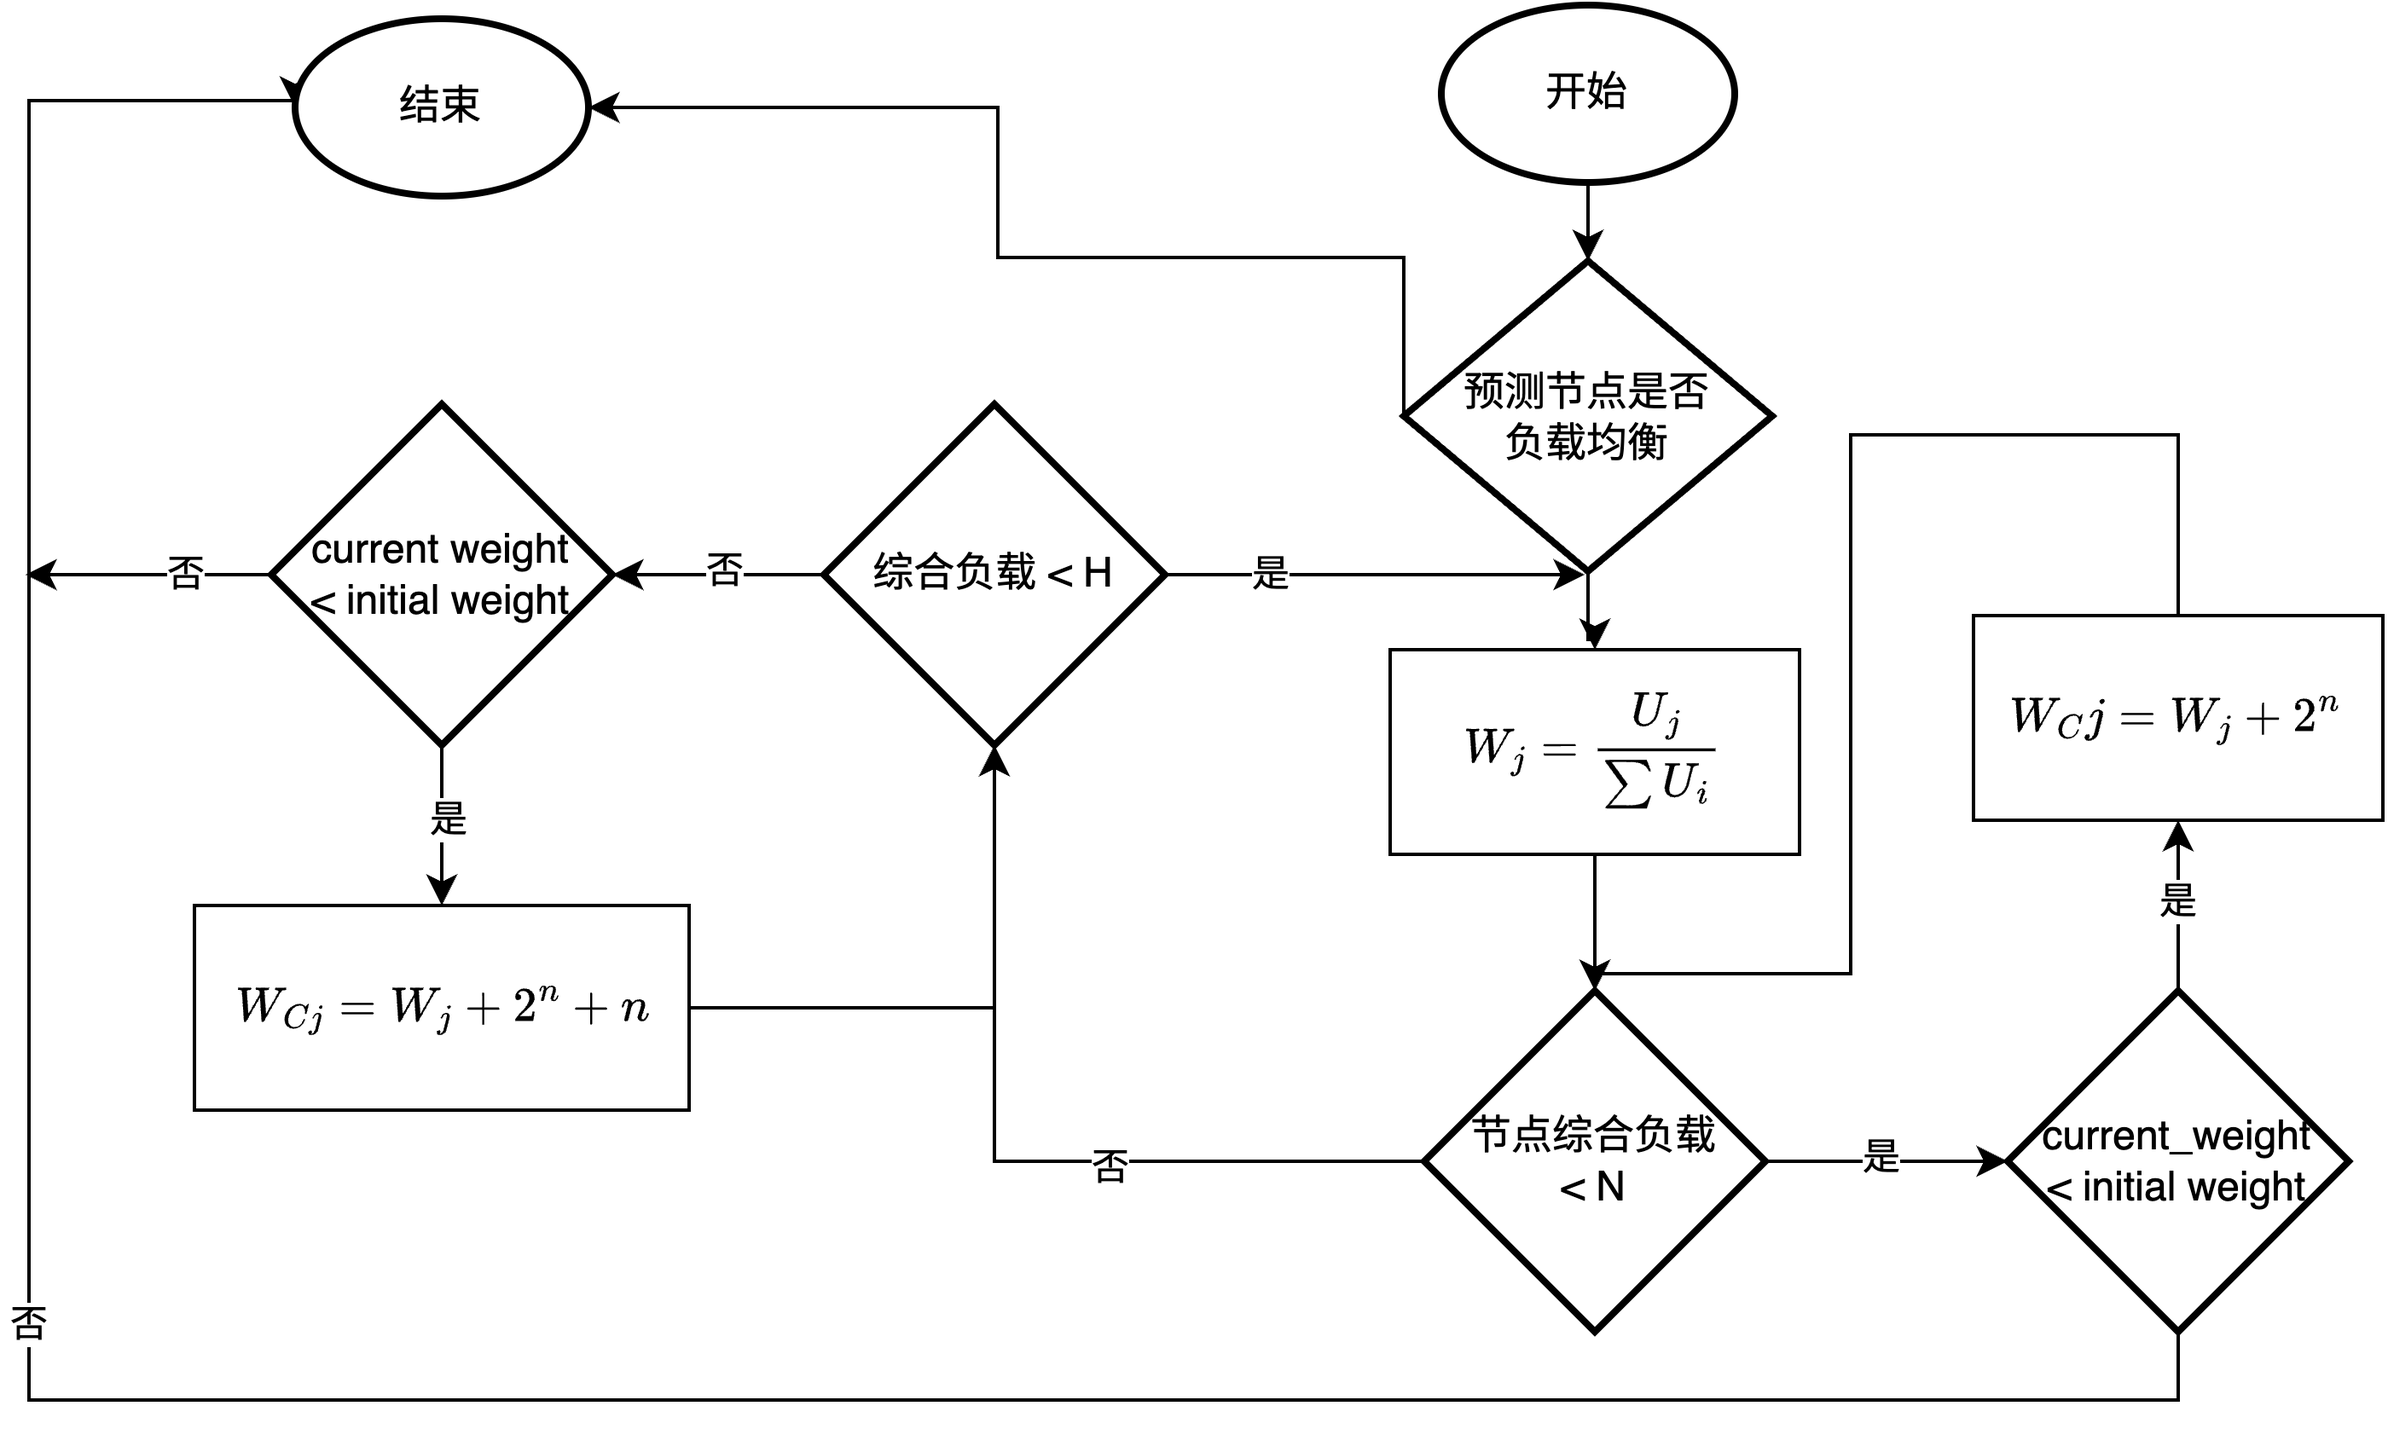
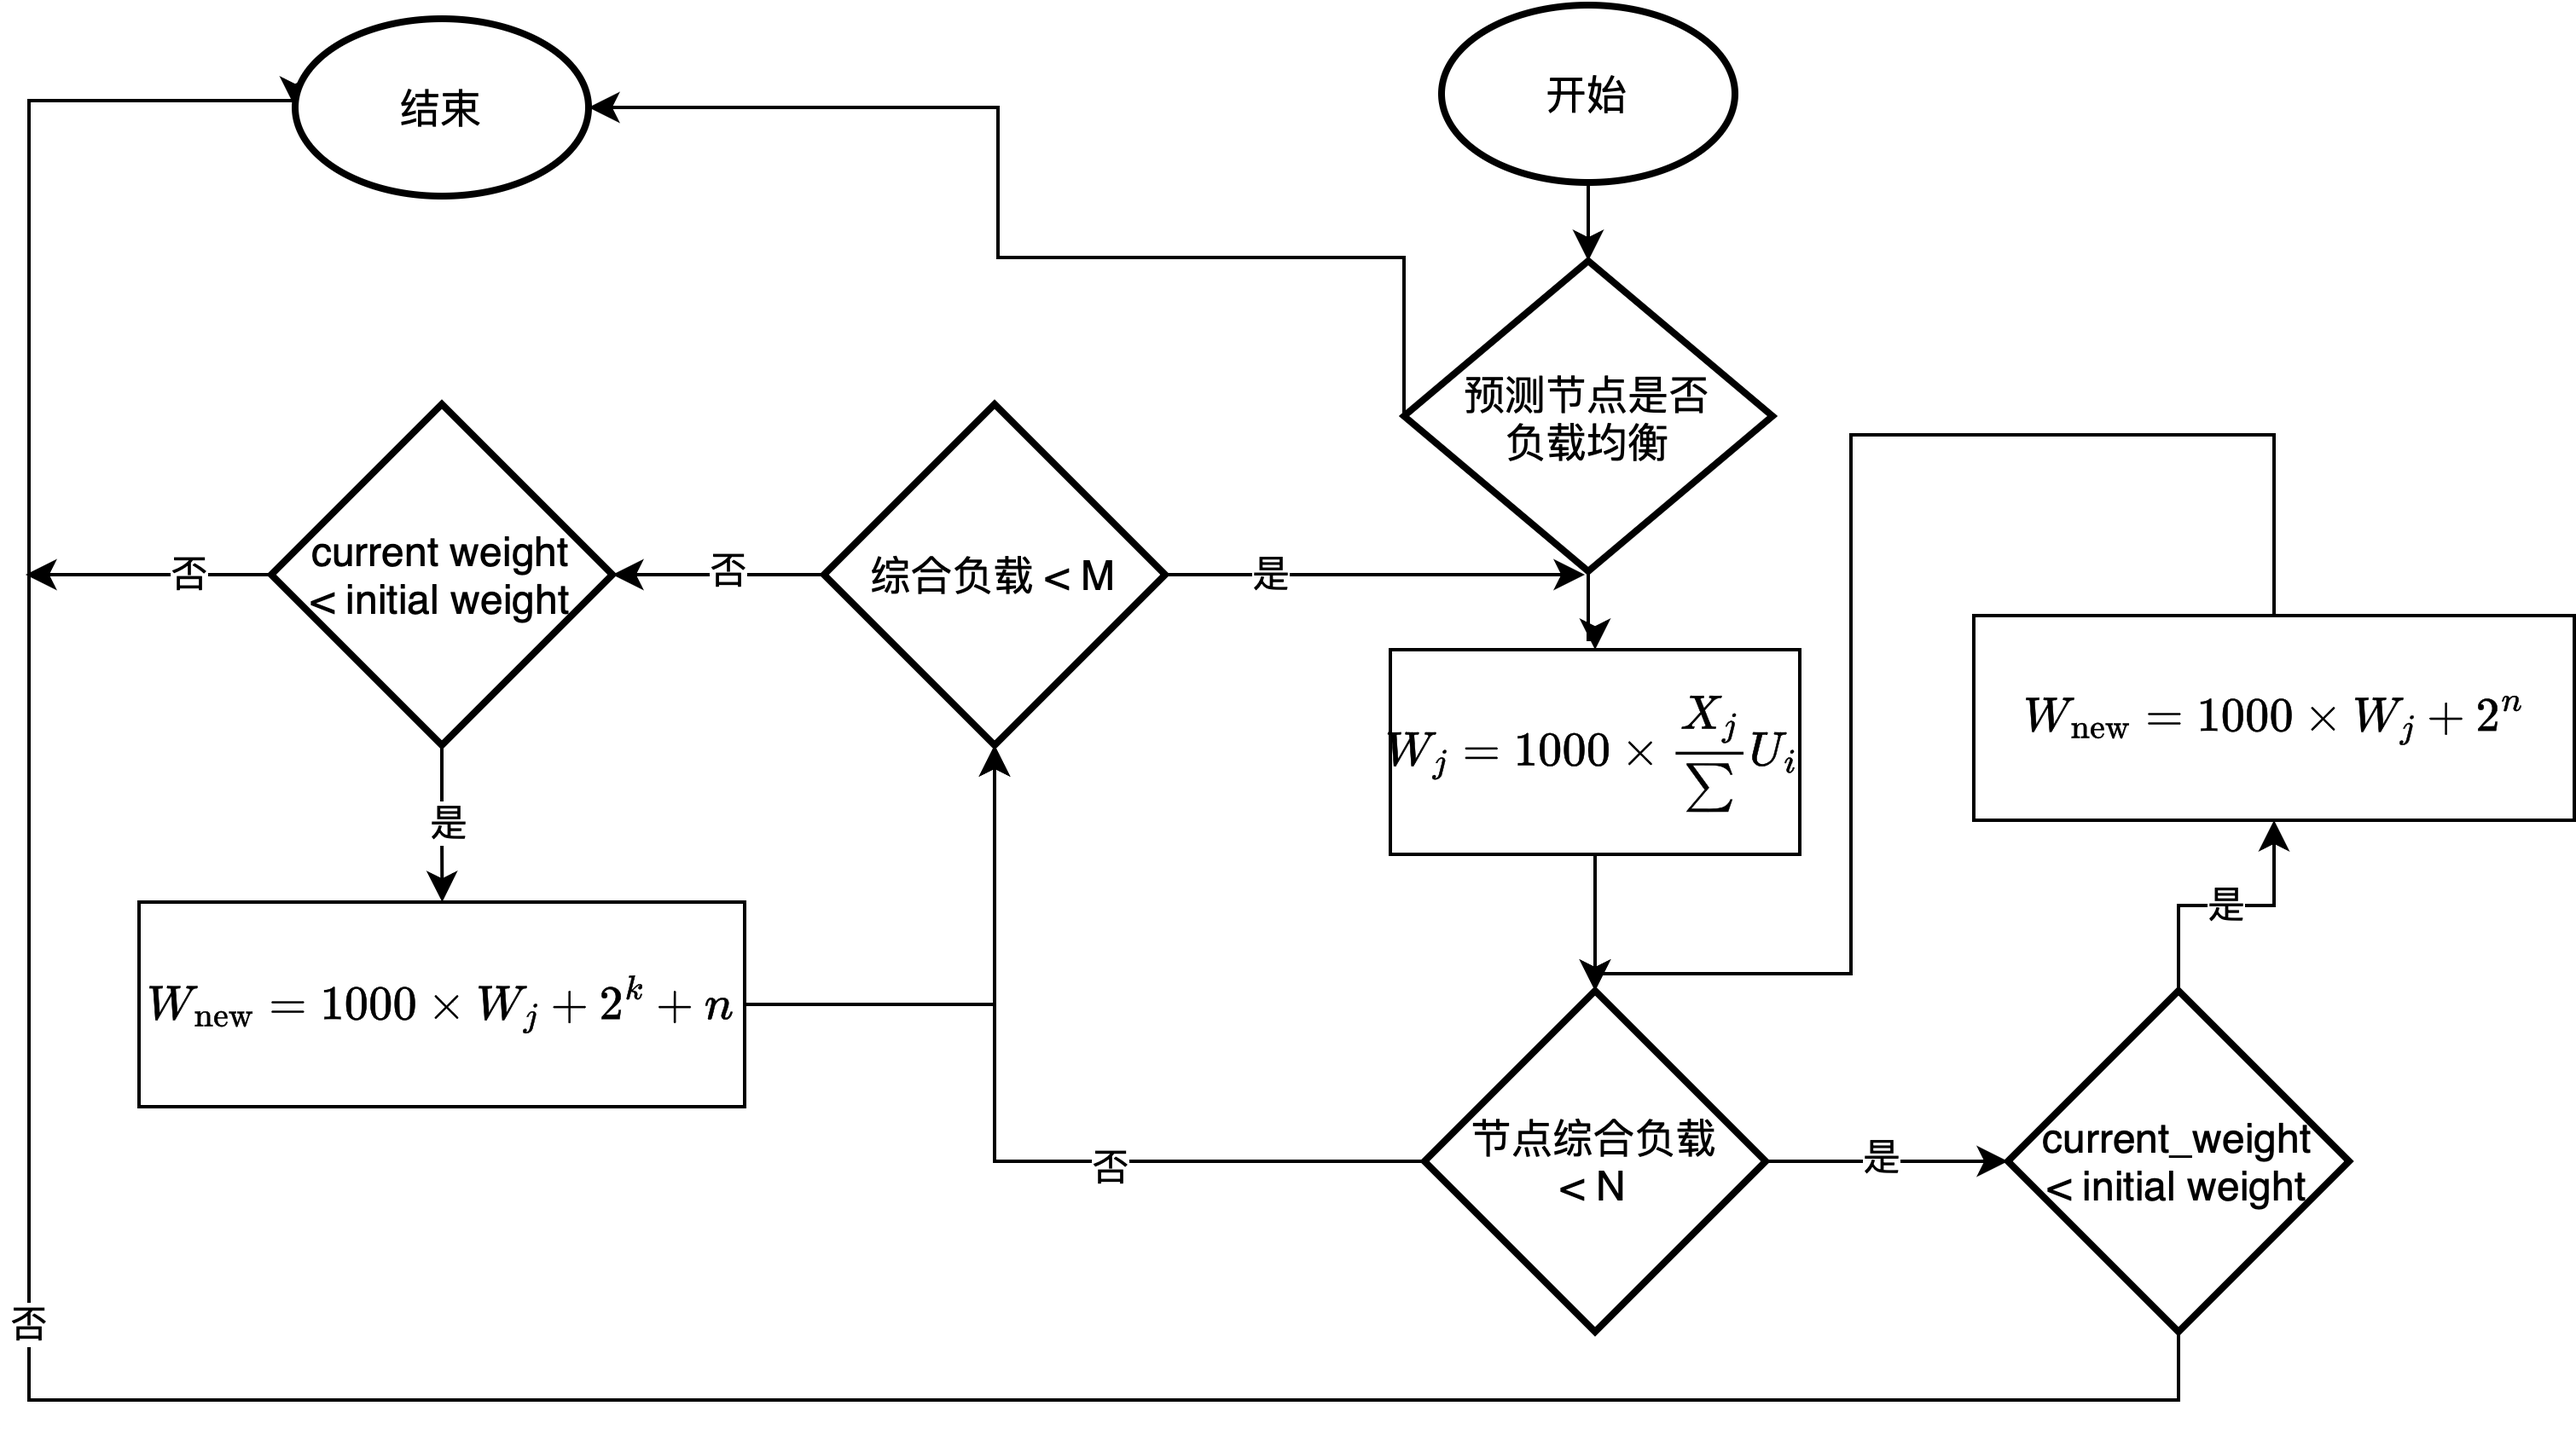
重要环节的改动

diff --git a/data/chap05.tex b/data/chap05.tex
@@ -181,7 +181,9 @@ Nginx 使用两种状态标志以表示过程的结果——NGX\_OK 表示已成
 \end{equation}
 
 当节点的资源使用率达到了系统的瓶颈时，节点处理任务请求的效率就会明显下降，那么负载均衡器分配给节点的权重值就会减少。
-通过表（2.2）可知，当节点的资源利用率评价为坏的时候，则可以认为此时节点负载过高。在初期阶段，此时总体剩余利用率可以通过公式（5.4）计算得到，在使用了周期性预测模块阶段则通过（4.4）计算得到，将该值设为 M，M 是判断节点负载是否平衡的条件，当 $T \ge M$  时，判断节点为高负载状态，则可以取阈值$N = L = 1 - H / 2$。
+通过表（2.2）可知，当节点的资源利用率评价为坏的时候，则可以认为此时节点负载过高。
+在初期阶段，此时总体剩余利用率可以通过公式（5.4）计算得到，在使用了周期性预测模块阶段则通过（4.4）计算得到，将该值设为 M。
+M 是判断节点负载是否平衡的条件，当 $X \ge M$  时，判断节点为高负载状态，则可以取阈值$N = 1 - M / 2$。
 
 信息采集周期 $\mathbf{T}$ ，在负载信息收集模块和周期性预测模块中起着关键作用。如果采集周期设置过短，在提高数据收集实时性的同时，可能会由于频繁的操作消耗过多系统资源。相反，如果采集周期过长，有可能导致负载均衡服务中节点的权重参数更新滞后，从而影响整体系统的响应性和效率。因此，正确地确定采集周期 $\mathbf{T}$ 并非一件简单的任务，而应通过定量的方法进行科学地评估和测试。
 本研究建议利用压力测试工具如siege对不同的采集周期 $\mathbf{T}$ 进行实验对比，以便找出一个既能确保系统资源有效利用，又能保持权重参数及时更新的最优周期。
@@ -244,20 +246,31 @@ http://192.168.66.166/06.mp4
 
 TCP Reno 在 Tahoe 的基础上增加了快速恢复机制即快重传机制。在 Reno 中，当收到三个重复的 ACK 时（表示一个单一的数据包丢失），它不会像 Tahoe 那样直接进入慢启动阶段，而是进入快速恢复阶段。在这个阶段，它将阈值设为当前 cwnd 的一半，并将 cwnd 设置为新阈值加3个段的大小，然后进行拥塞避免算法。如果又出现超时，则会和 Tahoe 一样，将 cwnd 设为1，重新开始慢启动过程。Reno 的这种机制可以在某些丢包情况下避免 cwnd 的大幅度减少，使得网络能够更快地恢复到有效的传输状态。从而使的负载均衡节点更有效的调整节点的权重
 
-根据这种思想，本文想去了服务器节点的综合负载指标这一指标作为判断负载时的条件，并设置一个阈值 $N$ 作为改进的动态轮询算法的权重调整门限，值 $M$ 判断节点是否负载均衡的条件。但是，初期阶段根据服务器信息处理模块收集到的信息来进行判断具有滞后性。所以在预测阶段能使用深度学习算法来预测节点综合负载指标来作为判断标准，获取所有节点下一时间段的综合负载情况，若判断存在服务器节点下一时间会变成高负载状态，则将下一时刻判断为负载不均衡的节点进行权重调整，调整方式为$W_j = 1000 \times U_j / \sum U_i$，$\sum U_i$ 表示下一时刻所有负载不均衡节点综合负载指标的和，$U_j$为第 $j$ 个且被判断为下一时刻负载不均衡的节点。并将节点的权重信息存入 Memcached 服务，对于低负载节点权重，将其调整为 $W_{Cj} = W_j - 2^n$，$n$ 为权重调整次数，直至权重变为初始权重。
-
-监控高负载节点的负载状况持续进行。当该服务器节点的综合指标， $X < N$ 且当前权重值小于初始权重值时，节点的权重将被调整为 $W_{Cj} = W_j + 2^n$，其中 $n$ 是调整次数。
-若权重增长值在此过程中等于初始权重值，则会调节权重增长的速率。单服务器节点的综合负载指标 $X \ge N$ 且当前权重小于初始权重值，则将停止该节点的指数型增长，并转为线性增长。 此时， $W_{Cj} = W_j + 2^k$， 其中 $k$ 为停止指数增长此刻权重调整的次数。
-如果在此过程中权重达到初始权重值，权重增长将停止。然而，如果该节点在下一时期再次被判断为高负载状况，则将再次调整权重。在节点权重信息调整过程中，权重值会持续更新并记录在 Memcached 中。高负载节点权重调整的流程图如图\ref{contral_weight}所示。
+根据这种思想，本文想去了服务器节点的综合负载指标这一指标作为判断负载时的条件，并设置一个阈值 $N$ 作为改进的动态轮询算法的权重调整门限，
+值 $X$ 判断节点是否负载均衡的条件。传统算法中，根据服务器信息处理模块收集到的信息来进行判断具有滞后性，
+因此本文通过周期性预测算法的加入，通过对综合负载指标进行预测来作为参考标准。
+首先，在初期阶段，需要使用公式（5.4）的层次分析法的权重公式对参考指标进行计算，按照默认的平滑加权轮询算法进行负载均衡；
+在周期性预测阶段，周期性预测模块通过使用存储在 Memcached 服务中的一段时间的综合负载指标进行预测，获取所有节点下一时间段的综合负载情况。
+若判断存在某一个服务器节点下一时间会变成高负载状态，则将下一时刻判断为负载不均衡的节点进行权重调整，
+调整方式为$W_j = 1000 \times X_{j} / \sum U_{i}$，$\sum U_{i}$ 表示下一时刻所有负载不均衡节点综合负载指标的和，
+$W_j$为第 $j$ 个且被判断为下一时刻负载不均衡的节点，并将节点的权重信息存入 Memcached 服务。
+对于高负载节点权重，将其调整为 $W_{new} = 1000 \times W_{j} / 2^{n}$ ，$n$ 为权重调整次数，直至节点到达负载均衡（快速回复）。
+监控高负载节点的负载状况持续进行。当该服务器节点的综合指标， $X < N$ 且当前权重值小于初始权重值时，
+节点的权重将被调整为 $W_{new} = 1000 \times W_{j} + 2^n$，其中 $n$ 是调整次数。
+若权重增长值在此过程中等于初始权重值，则会调节权重增长的速率。单服务器节点的综合负载指标 $X \ge N$ 且当前权重小于初始权重值，则将停止该节点的指数型增长，并转为线性增长。
+此时， $W_{new} = 1000 \times W_{j} + 2^k + n$， 其中 $k$ 为停止指数增长此刻权重调整的次数。
+如果在此过程中权重达到初始权重值，权重增长将停止。然而，如果该节点在下一时期再次被判断为高负载状况，则将再次调整权重。
+在节点权重信息调整过程中，权重值会持续更新并记录在 Memcached 中。高负载节点权重调整的流程图如图\ref{contral_weight}所示。
 
 \begin{figure}[htbp]
 	\centering
-	\includegraphics[width=.9\textwidth]{figures/change_weight.png}
+	\includegraphics[width=\textwidth]{figures/change_weight.png}
 	\caption{基于拥塞控制思想的权重调整流程}
 	\label{contral_weight}
 \end{figure}
 
 \section{本章总结}
 
-在本章中，通过研究常规的动态负载均衡方案的不足，提出了与预测模型相结合的动态负载均衡方案。其中包含两个阶段，初期阶段和预测阶段，很好的解决了改进算法在没有数据时的负载均衡方案，提出了收集周期 $T$ 和初期阶段的初始权重，和调整权重的阈值 $N$，
+在本章中，通过研究常规的动态负载均衡方案的不足，提出了与预测模型相结合的动态负载均衡方案。
+其中包含两个阶段，初期阶段和预测阶段，很好的解决了改进算法在没有数据时的负载均衡方案，提出了收集周期 $T$ 和初期阶段的初始权重，和调整权重的阈值 $N$，
 同时借鉴了 TCP Reno 方案优化了负载均衡器调整权重时的阻塞情况。
